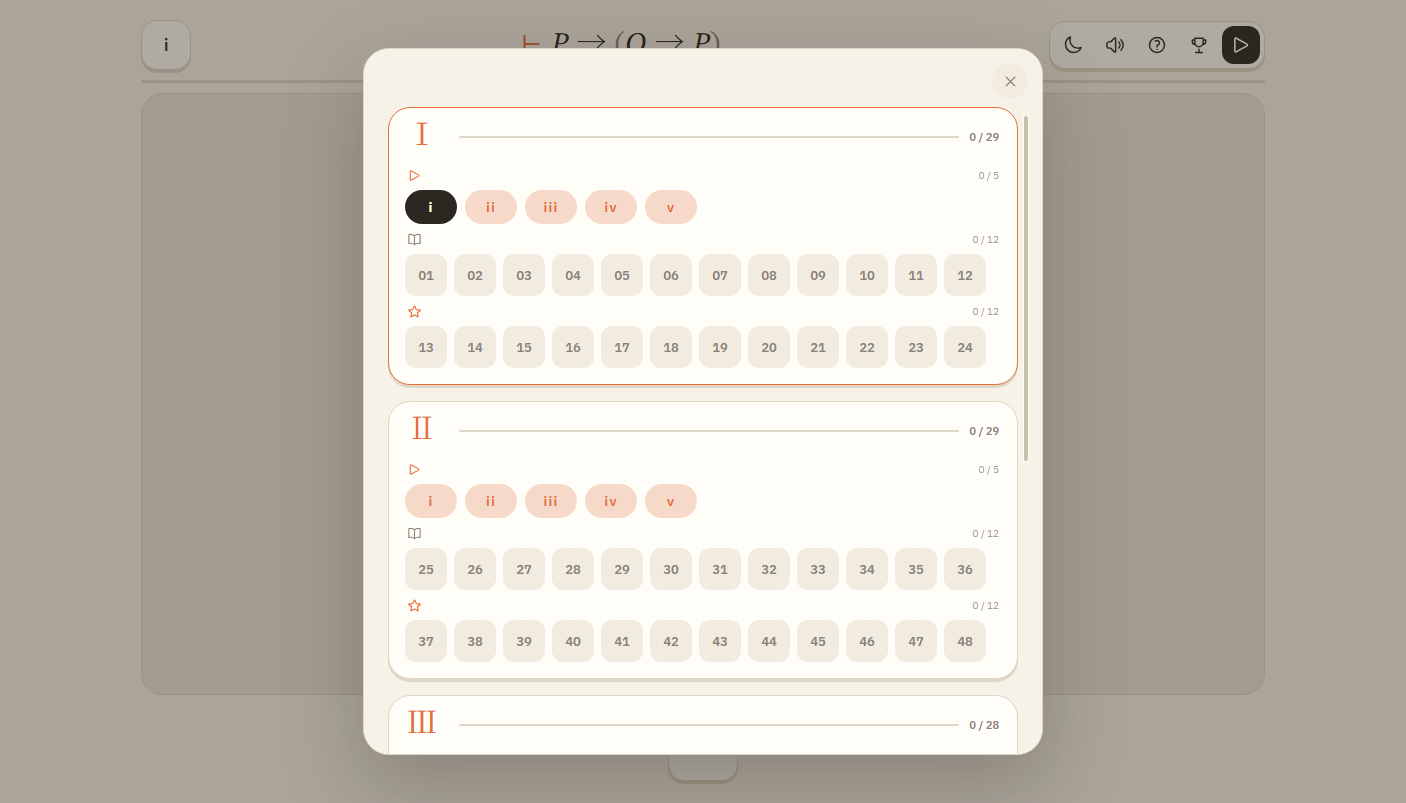
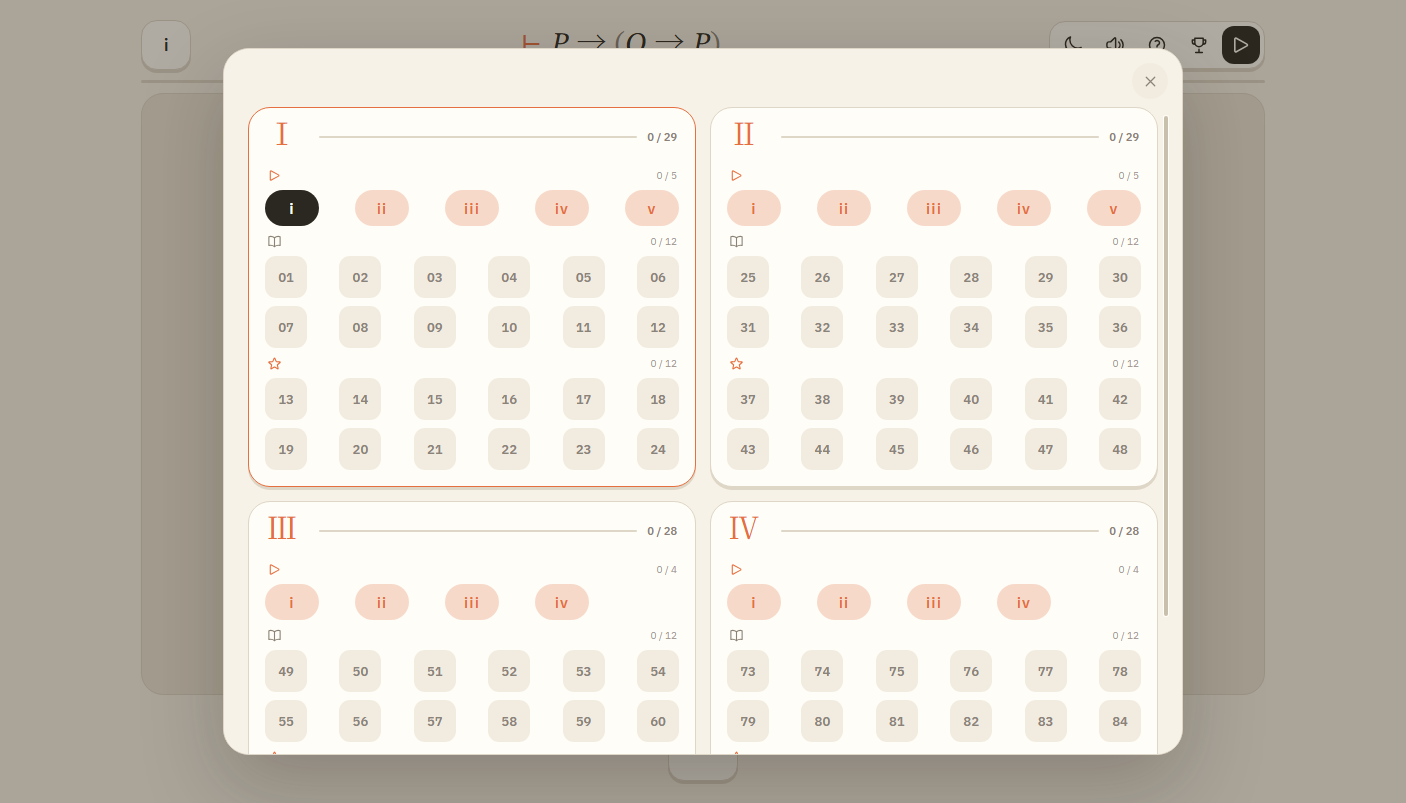
Local-route close ports and rework level select as a 2x2 chapter grid
- close-port routing: when the target port is close (or left of the source),
  bypass A* and draw a deterministic Z/U lane between the nodes, with its
  segments marked in the occupancy table. Fan-in into adjacent inputs is now
  a short Z instead of looping around the source node.
- add a game-ui regression: two close fan-in wires must stay within 12 path
  segments.
- level select third layout: chapters in a 2x2 grid of white sticker cards on
  the beige sheet; each card shows a large roman numeral, a single progress
  line, a 5-pill tutorial row and two 6-column rows for base/challenge.
  Mobile collapses to one column.
- refresh README level screenshot and DESIGN notes.
- 114 levels compile, npm test 5/5, route 11/11, game-ui 30/30, acceptance
  green; .maintenance stays.

diff --git a/src/simple.css b/src/simple.css
@@ -657,12 +657,12 @@ body.is-holding *{cursor:grabbing!important}
  * ========================================================================= */
 
 .sheet.sheet-levels{
-  width:min(680px,100%);
+  width:min(960px,100%);
   background:var(--bg);border:1px solid var(--line);
   box-shadow:var(--sheet-shadow);
 }
 
-.chapters{display:flex;flex-direction:column;gap:16px;padding-top:2px}
+.chapters{display:grid;grid-template-columns:repeat(2,minmax(0,1fr));gap:14px;align-items:start;padding-top:2px}
 
 /* 章节是白色贴纸卡，棋盘底色做背景：大罗马数字 + 细进度线 + 计数。 */
 .chapter{
@@ -689,9 +689,9 @@ body.is-holding *{cursor:grabbing!important}
 .band.is-locked .band-glyph{opacity:.4}
 .band-count{font-size:10px;color:var(--muted);opacity:.8;font-variant-numeric:tabular-nums;margin-left:auto}
 
-.levels{display:grid;grid-template-columns:repeat(12,42px);gap:7px;justify-content:start}
+.levels{display:grid;grid-template-columns:repeat(6,42px);gap:8px;justify-content:space-between}
 .band .levels{padding-top:2px}
-.band.tutorial .levels{grid-template-columns:repeat(5,52px);gap:8px;align-items:center}
+.band.tutorial .levels{grid-template-columns:repeat(5,54px);gap:8px;align-items:center;justify-content:space-between}
 
 /* 关卡格只保留四种语义：默认 / 已通关 / 当前 / 锁定。 */
 .level-cell{
@@ -708,8 +708,8 @@ body.is-holding *{cursor:grabbing!important}
 .level-cell.is-current{background:var(--stamp-bg);color:var(--stamp-fg)}
 /* 教学关：拉长成小胶囊，罗马数字用界面字体 */
 .level-cell.is-tutorial{
-  width:52px;height:34px;border-radius:var(--radius-pill);
-  font-family:var(--font);font-style:normal;font-size:14px;font-weight:600;
+  width:54px;height:36px;border-radius:var(--radius-pill);
+  font-family:var(--font);font-style:normal;font-size:15px;font-weight:600;
   letter-spacing:.08em;background:var(--accent-soft);color:var(--accent);
 }
 .level-cell.is-tutorial:hover{background:var(--accent-soft);box-shadow:var(--sticker)}
@@ -999,9 +999,10 @@ body.is-holding *{cursor:grabbing!important}
   .levels{grid-template-columns:repeat(6,42px);gap:8px}
   .level-cell{width:42px;height:42px;border-radius:12px}
   .band.tutorial .levels{grid-template-columns:repeat(5,48px);gap:7px}
-  .level-cell.is-tutorial{width:48px;height:34px;font-size:13px}
+  .level-cell.is-tutorial{width:48px;height:34px;font-size:14px}
 
-  .chapters{gap:14px;padding-top:2px}
+  .chapters{grid-template-columns:1fr;gap:14px;padding-top:2px}
+  .band.tutorial .levels{justify-content:start}
   .chapter{padding:13px 13px 14px;border-radius:var(--radius)}
   .chapter-head{gap:9px;padding-bottom:6px}
   .chapter-roman{font-size:22px;min-width:30px}
@@ -1031,8 +1032,8 @@ body.is-holding *{cursor:grabbing!important}
   .letter-grid{grid-template-columns:repeat(5,minmax(0,1fr));gap:6px}
   .letter-grid .opt{height:44px;font-size:18px}
   .levels{grid-template-columns:repeat(4,42px)}
-  .band.tutorial .levels{grid-template-columns:repeat(5,44px);gap:6px}
-  .level-cell.is-tutorial{width:44px;height:32px;font-size:12px}
+  .band.tutorial .levels{grid-template-columns:repeat(5,46px);gap:6px}
+  .level-cell.is-tutorial{width:46px;height:32px;font-size:13px}
   .sheet{padding:50px 16px 18px}
   .help-cards{grid-template-columns:1fr}
   .win-formula{font-size:19px}

diff --git a/src/board.js b/src/board.js
@@ -790,6 +790,36 @@
     };
   }
 
+  /* 端口离得很近（或目标在左侧）时不再交给 A*：用固定车道画一条短 Z/U 线，
+   * 避免 A* 在两个 stub 之间来回绕。返回 null 表示按常规 stub + A* 处理。 */
+  function closeWirePoints(a, b, ra, rb) {
+    if (!ra || !rb) return null;
+    var gap = rb.x - (ra.x + ra.w);
+    var dx = b.x - a.x;
+    if (dx >= ROUTE.stub * 2 + 16 && gap >= ROUTE.stub * 2 + 8) return null;
+    var PAD = 14;
+    if (b.x > a.x && gap >= 10) {
+      var step = Math.max(6, Math.min(18, (b.x - a.x) / 3));
+      var xr = a.x + step, xl = b.x - step;
+      if (xr >= xl) { xr = xl = Math.round((a.x + b.x) / 2); }
+      var my = Math.round((a.y + b.y) / 2);
+      return [
+        { x: a.x, y: a.y }, { x: xr, y: a.y }, { x: xr, y: my },
+        { x: xl, y: my }, { x: xl, y: b.y }, { x: b.x, y: b.y }
+      ];
+    }
+    var yTop = Math.min(ra.y, rb.y) - PAD;
+    var yBottom = Math.max(ra.y + ra.h, rb.y + rb.h) + PAD;
+    var yLane = (Math.abs(a.y - yTop) + Math.abs(b.y - yTop) <=
+                 Math.abs(a.y - yBottom) + Math.abs(b.y - yBottom)) ? yTop : yBottom;
+    var xRight = Math.max(ra.x + ra.w, rb.x + rb.w) + PAD;
+    var xLeft = Math.min(ra.x, rb.x) - PAD;
+    return [
+      { x: a.x, y: a.y }, { x: xRight, y: a.y }, { x: xRight, y: yLane },
+      { x: xLeft, y: yLane }, { x: xLeft, y: b.y }, { x: b.x, y: b.y }
+    ];
+  }
+
   function simpleWirePoints(a, b) {
     var s = wireStubPoints(a, b);
     var x1 = s.a.x, x2 = s.b.x;
@@ -852,8 +882,19 @@
     entries.sort(function (e1, e2) { return e1.dist - e2.dist; });
     entries.forEach(function (x) {
       var e = x.e;
-      var s = wireStubPoints(x.a, x.b);
       var group = e.from.node + '|' + e.from.port;
+      var ra = rects.filter(function (r) { return r.id === e.from.node; })[0];
+      var rb = rects.filter(function (r) { return r.id === e.to.node; })[0];
+      var local = closeWirePoints(x.a, x.b, ra, rb);
+      if (local) {
+        var others = rects.filter(function (r) { return r.id !== e.from.node && r.id !== e.to.node; });
+        if (Route.pathClear(local, others)) {
+          Route.markPath(local, used, group, ROUTE.cell);
+          routes[e.id] = local;
+          return;
+        }
+      }
+      var s = wireStubPoints(x.a, x.b);
       var pts = Route.route(s.a, s.b, rects, used, group, { fromId: e.from.node, toId: e.to.node });
       if (s.stub > 0) {
         pts.unshift({ x: x.a.x, y: x.a.y });

diff --git a/tests/game-ui.js b/tests/game-ui.js
@@ -118,6 +118,29 @@ runTest('game-ui', async ({ openPage }) => {
   })()`);
   equal(persist.proofEdge, true, '重进关卡时终点连线恢复');
 
+  /* 近距离端口：扇入到相邻输入端的线应是短的 Z 折线，而不是绕圈的乱线 */
+  const closeWires = await page.js(`(function(){
+    document.getElementById('tutorialTip').hidden = true;
+    var app = window.RSL.APP;
+    var nodes = [
+      {id:'a',kind:'atom',x:60,y:80,config:{name:'P'}},
+      {id:'c',kind:'atom',x:60,y:250,config:{name:'Q'}},
+      {id:'b',kind:'imp',x:340,y:150,config:{}}
+    ];
+    var edges = [
+      {id:'e1',from:{node:'a',port:'out'},to:{node:'b',port:'a'}},
+      {id:'e2',from:{node:'c',port:'out'},to:{node:'b',port:'b'}}
+    ];
+    app.state.board.setData(nodes, edges);
+    var res = window.RSL.Engine.evaluate(app.state.level, nodes, edges, {levels: app.state.levels, levelNo: 1});
+    app.state.board.paint(res);
+    return Array.from(document.querySelectorAll('.wire')).map(function(p){return p.getAttribute('d');});
+  })()`);
+  closeWires.forEach(function (d, i) {
+    const turns = (String(d).match(/L/g) || []).length;
+    ok(turns > 0 && turns <= 12, '近距离端口连线保持短折线（线 ' + (i + 1) + '：' + turns + ' 段）');
+  });
+
   /* 最后一关：*96 与目标 */
   await page.js('window.RSL.APP.loadLevel(window.RSL.APP.state.levels.map(function(l){return l.code}).indexOf("*96"))');
   await page.sleep(300);

diff --git a/src/route.js b/src/route.js
@@ -432,6 +432,7 @@
     pathClear: pathClear,
     shortcut: shortcut,
     despike: despike,
+    markPath: markPath,
     fallbackRoute: fallbackRoute,
     route: route
   };

diff --git a/docs/DESIGN.md b/docs/DESIGN.md
@@ -61,8 +61,8 @@
   拆成游离 draft，可拖到别的输入端重接；松手在空白处则丢弃，不留半截导线。
 - **帮助面板**：顶部三个图标（取模块 / 接线 / 校验，不配文字），下面只列推理规则的
   “代号 + 公式”图例（S/M/∀*/∀E*/∃I*/∃E/=I/=L）；不列变元、连接词或公理。存档/读档只保留图标按钮。
-- **选关面板**：每章是一张白色贴纸卡（大罗马数字 + 细进度线 + 计数），卡内按教学 / 普通 /
-  进阶三行排关卡；普通/进阶是 12 列方块，教学关是强调色小胶囊，不再重复分带进度条。
+- **选关面板**：章节卡两栏排布（窄屏单栏）；每张卡内教学一行、普通/进阶各两行六列。
+  章节头是大罗马数字 + 细进度线 + 计数；教学关是强调色小胶囊，普通/进阶是方块。
 - **教学浮窗**：进入教学关时在棋盘正中显示一张玻璃卡，左边是本关元件的代号贴纸，右边是规则式
   （如 `A1` + `P→(Q→P)`）；只使用符号/Latin，点击任意处消失。
 - **成就面板**：20 个图标格（未解锁是问号）；名称与条件只在点开后的详情里出现。
